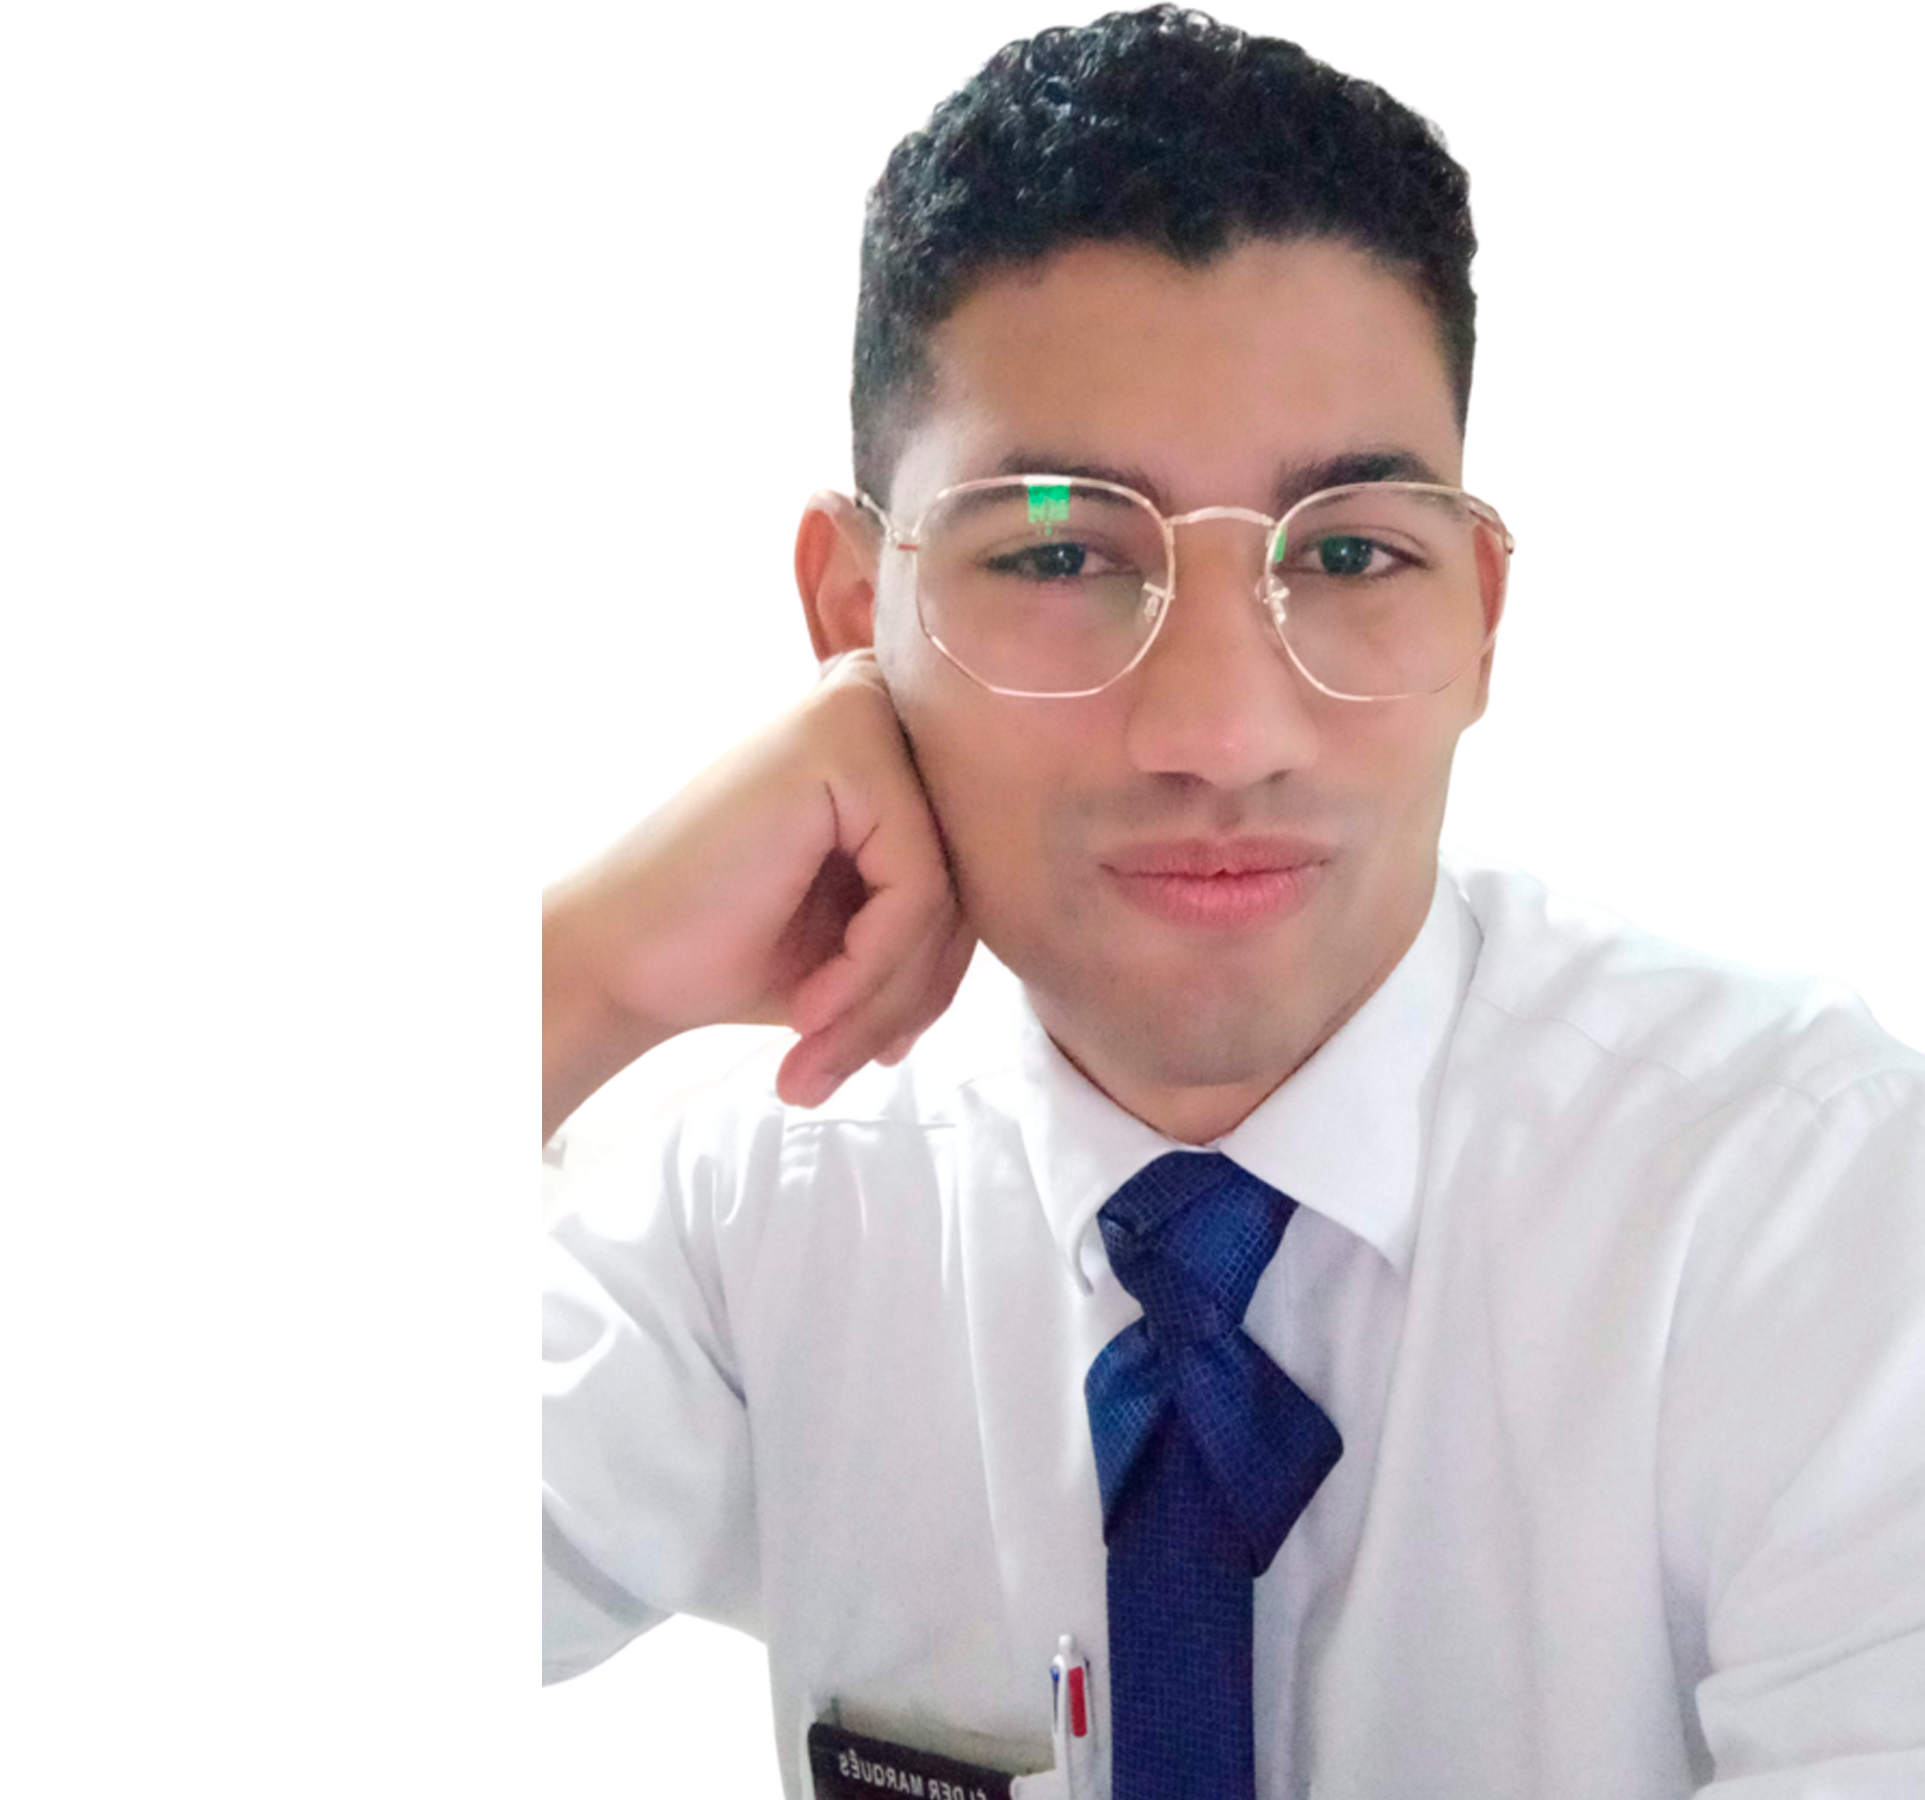
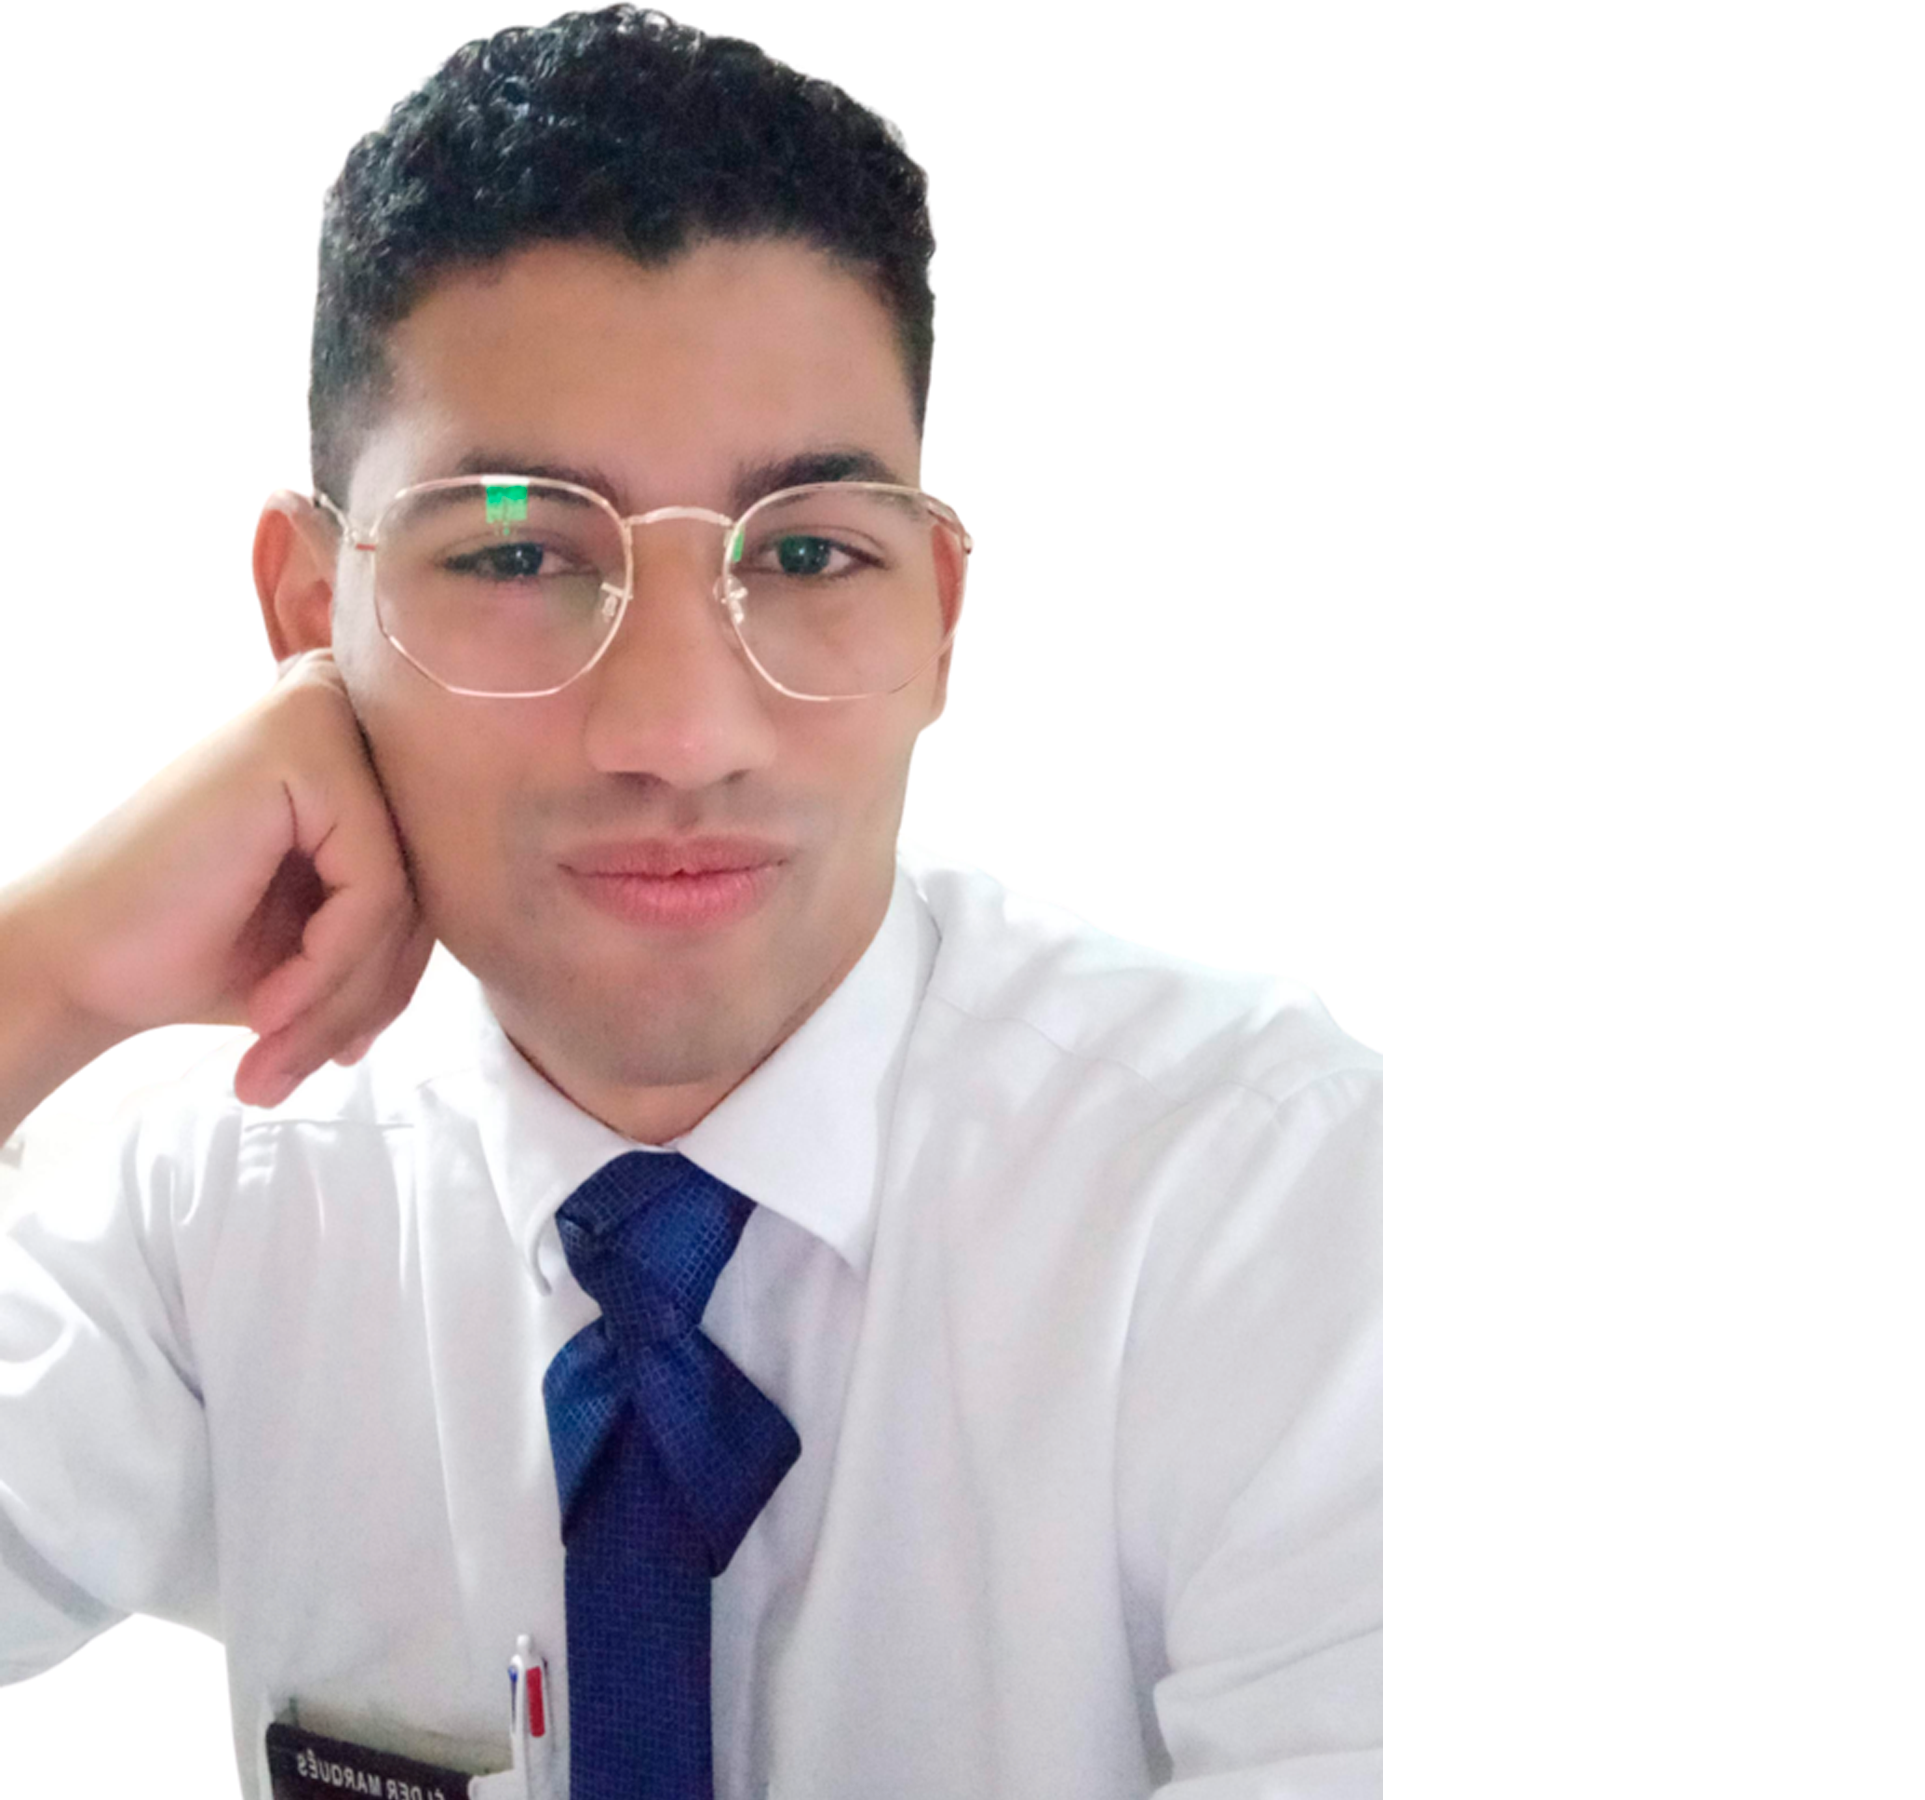
ajustando a sessão Hero

diff --git a/src/components/HomeHero/styles.ts b/src/components/HomeHero/styles.ts
@@ -1,4 +1,4 @@
-import styled, { css } from 'styled-components';
+import styled from 'styled-components';
 
 export const Container = styled.section`
   width: 100%;
@@ -9,10 +9,9 @@ export const Container = styled.section`
   margin-top: 5rem;
 
   > img {
-    border-radius: 25%;
-    width: 45rem;
+    border-radius: 20%;
+    width: 40rem;
     flex: 1;
-    max-width: none;
   }
 
   > div {
@@ -23,15 +22,18 @@ export const Container = styled.section`
     > img {
       width: 30rem;
     }
+
     > div {
       flex: 1;
     }
   }
+
   @media (max-width: 1000px) {
     > img {
       width: 22rem;
     }
   }
+
   @media (max-width: 700px) {
     flex-direction: column-reverse;
     > div {
@@ -41,38 +43,37 @@ export const Container = styled.section`
 `;
 
 export const TextContainer = styled.section`
-  ${({ theme }) => css`
-    margin-bottom: 2rem;
-    width: 100%;
+  margin-bottom: 2rem;
+  width: 100%;
 
+  h1 {
+    font-size: 8rem;
+    color: ${({ theme }) => theme.primary};
+  }
+
+  h2 {
+    font-size: 3rem;
+    font-weight: 400;
+    color: ${({ theme }) => theme.secondary};
+  }
+
+  @media (max-width: 1450px) {
     h1 {
-      font-size: 8rem;
-      color: ${theme.primary};
+      font-size: 5rem;
     }
-
     h2 {
-      font-size: 3rem;
-      font-weight: 400;
-      color: ${theme.secondary};
+      font-size: 2rem;
     }
+  }
 
-    @media (max-width: 1450px) {
-      h1 {
-        font-size: 5rem;
-      }
-      h2 {
-        font-size: 2rem;
-      }
+  @media (max-width: 1000px) {
+    h1 {
+      font-size: 3rem;
     }
-    @media (max-width: 1000px) {
-      h1 {
-        font-size: 3rem;
-      }
-      h2 {
-        font-size: 1.5rem;
-      }
+    h2 {
+      font-size: 1.5rem;
     }
-  `}
+  }
 `;
 
 export const InfosContainer = styled.section`
@@ -83,50 +84,49 @@ export const InfosContainer = styled.section`
 `;
 
 export const CodeItem = styled.pre`
-  ${({ theme }) => css`
-    background: ${theme.gradient};
-    padding: 2rem;
-    font-family: 'JetBrains Mono', monospace;
-    font-weight: 300;
-    color: #fff;
-    width: 24rem;
-    align-self: flex-start;
-    transition: 1s !important;
+  background: ${({ theme }) => theme.gradient};
+  padding: 2rem;
+  font-family: 'JetBrains Mono', monospace;
+  font-weight: 300;
+  color: #fff;
+  width: 24rem;
+  align-self: flex-start;
+  transition: 1s !important;
 
-    @media (max-width: 1450px) {
-      width: 18rem;
-      padding: 1.5rem;
-      font-size: 0.8rem;
-    }
-    @media (max-width: 1000px) {
-      width: 100%;
-    }
+  @media (max-width: 1450px) {
+    width: 18rem;
+    padding: 1.5rem;
+    font-size: 0.8rem;
+  }
 
-    &:hover {
-      filter: brightness(1.2);
-    }
+  @media (max-width: 1000px) {
+    width: 100%;
+  }
 
-    &:last-child {
-      align-self: flex-end;
-    }
+  &:hover {
+    filter: brightness(1.2);
+  }
 
-    > div {
-      margin: 0.2rem 0;
-      margin-left: 1rem;
-    }
+  &:last-child {
+    align-self: flex-end;
+  }
 
-    span.purple {
-      color: #c38cdd;
-    }
+  > div {
+    margin: 0.2rem 0;
+    margin-left: 1rem;
+  }
 
-    span.blue {
-      color: #7ac7e3;
-    }
+  span.purple {
+    color: #c38cdd;
+  }
 
-    span.comment {
-      color: ${theme.text};
-      margin-bottom: 1rem;
-      display: block;
-    }
-  `}
+  span.blue {
+    color: #7ac7e3;
+  }
+
+  span.comment {
+    color: ${({ theme }) => theme.text};
+    margin-bottom: 1rem;
+    display: block;
+  }
 `;

diff --git a/src/components/HomeHero/index.tsx b/src/components/HomeHero/index.tsx
@@ -1,6 +1,6 @@
 /* eslint-disable react/jsx-no-comment-textnodes */
 import { Container, TextContainer, InfosContainer, CodeItem } from './styles';
-import picture from '../../../public/assets/images/me.png';
+import picture from '../../../public/assets/images/profile.png';
 
 function HomeHero() {
   return (
@@ -8,7 +8,7 @@ function HomeHero() {
       <img src={picture} alt="Minha foto" />
       <div>
         <TextContainer>
-          <h1>Olá!</h1>
+          <h1>Olá</h1>
           <h2>Me chamo Duque</h2>
         </TextContainer>
         <InfosContainer>
@@ -40,3 +40,46 @@ function HomeHero() {
 }
 
 export default HomeHero;
+
+/* eslint-disable react/jsx-no-comment-textnodes */
+// import { Container, TextContainer, InfosContainer, CodeItem } from './styles';
+// import picture from '../../../public/assets/images/pessoa.webp';
+
+// function HomeHero() {
+//   return (
+//     <Container data-aos="fade-up">
+//       <img src={picture} alt="Minha foto" />
+//       <div>
+//         <TextContainer>
+//           <h1>Olá</h1>
+//           <h2>Me chamo Gabriel</h2>
+//         </TextContainer>
+//         <InfosContainer>
+//           <CodeItem data-aos="zoom-in">
+//             <span className="comment">//Minha apresentação</span>
+//             <span className="purple">Infos</span> {'\u007B'}
+//             <div>
+//               Nome: <span className="blue">Gabriel,</span>
+//             </div>
+//             <div>
+//               Sobrenome: <span className="blue">Borges</span>
+//             </div>
+//             {'\u007D'}
+//           </CodeItem>
+//           <CodeItem data-aos="zoom-in">
+//             <span className="purple">Cargo</span> {'\u007B'}
+//             <div>
+//               Função: <span className="blue">Dev Front-end,</span>
+//             </div>
+//             <div>
+//               Empresa: <span className="blue">Cidade Alta</span>
+//             </div>
+//             {'\u007D'}
+//           </CodeItem>
+//         </InfosContainer>
+//       </div>
+//     </Container>
+//   );
+// }
+
+// export default HomeHero;
